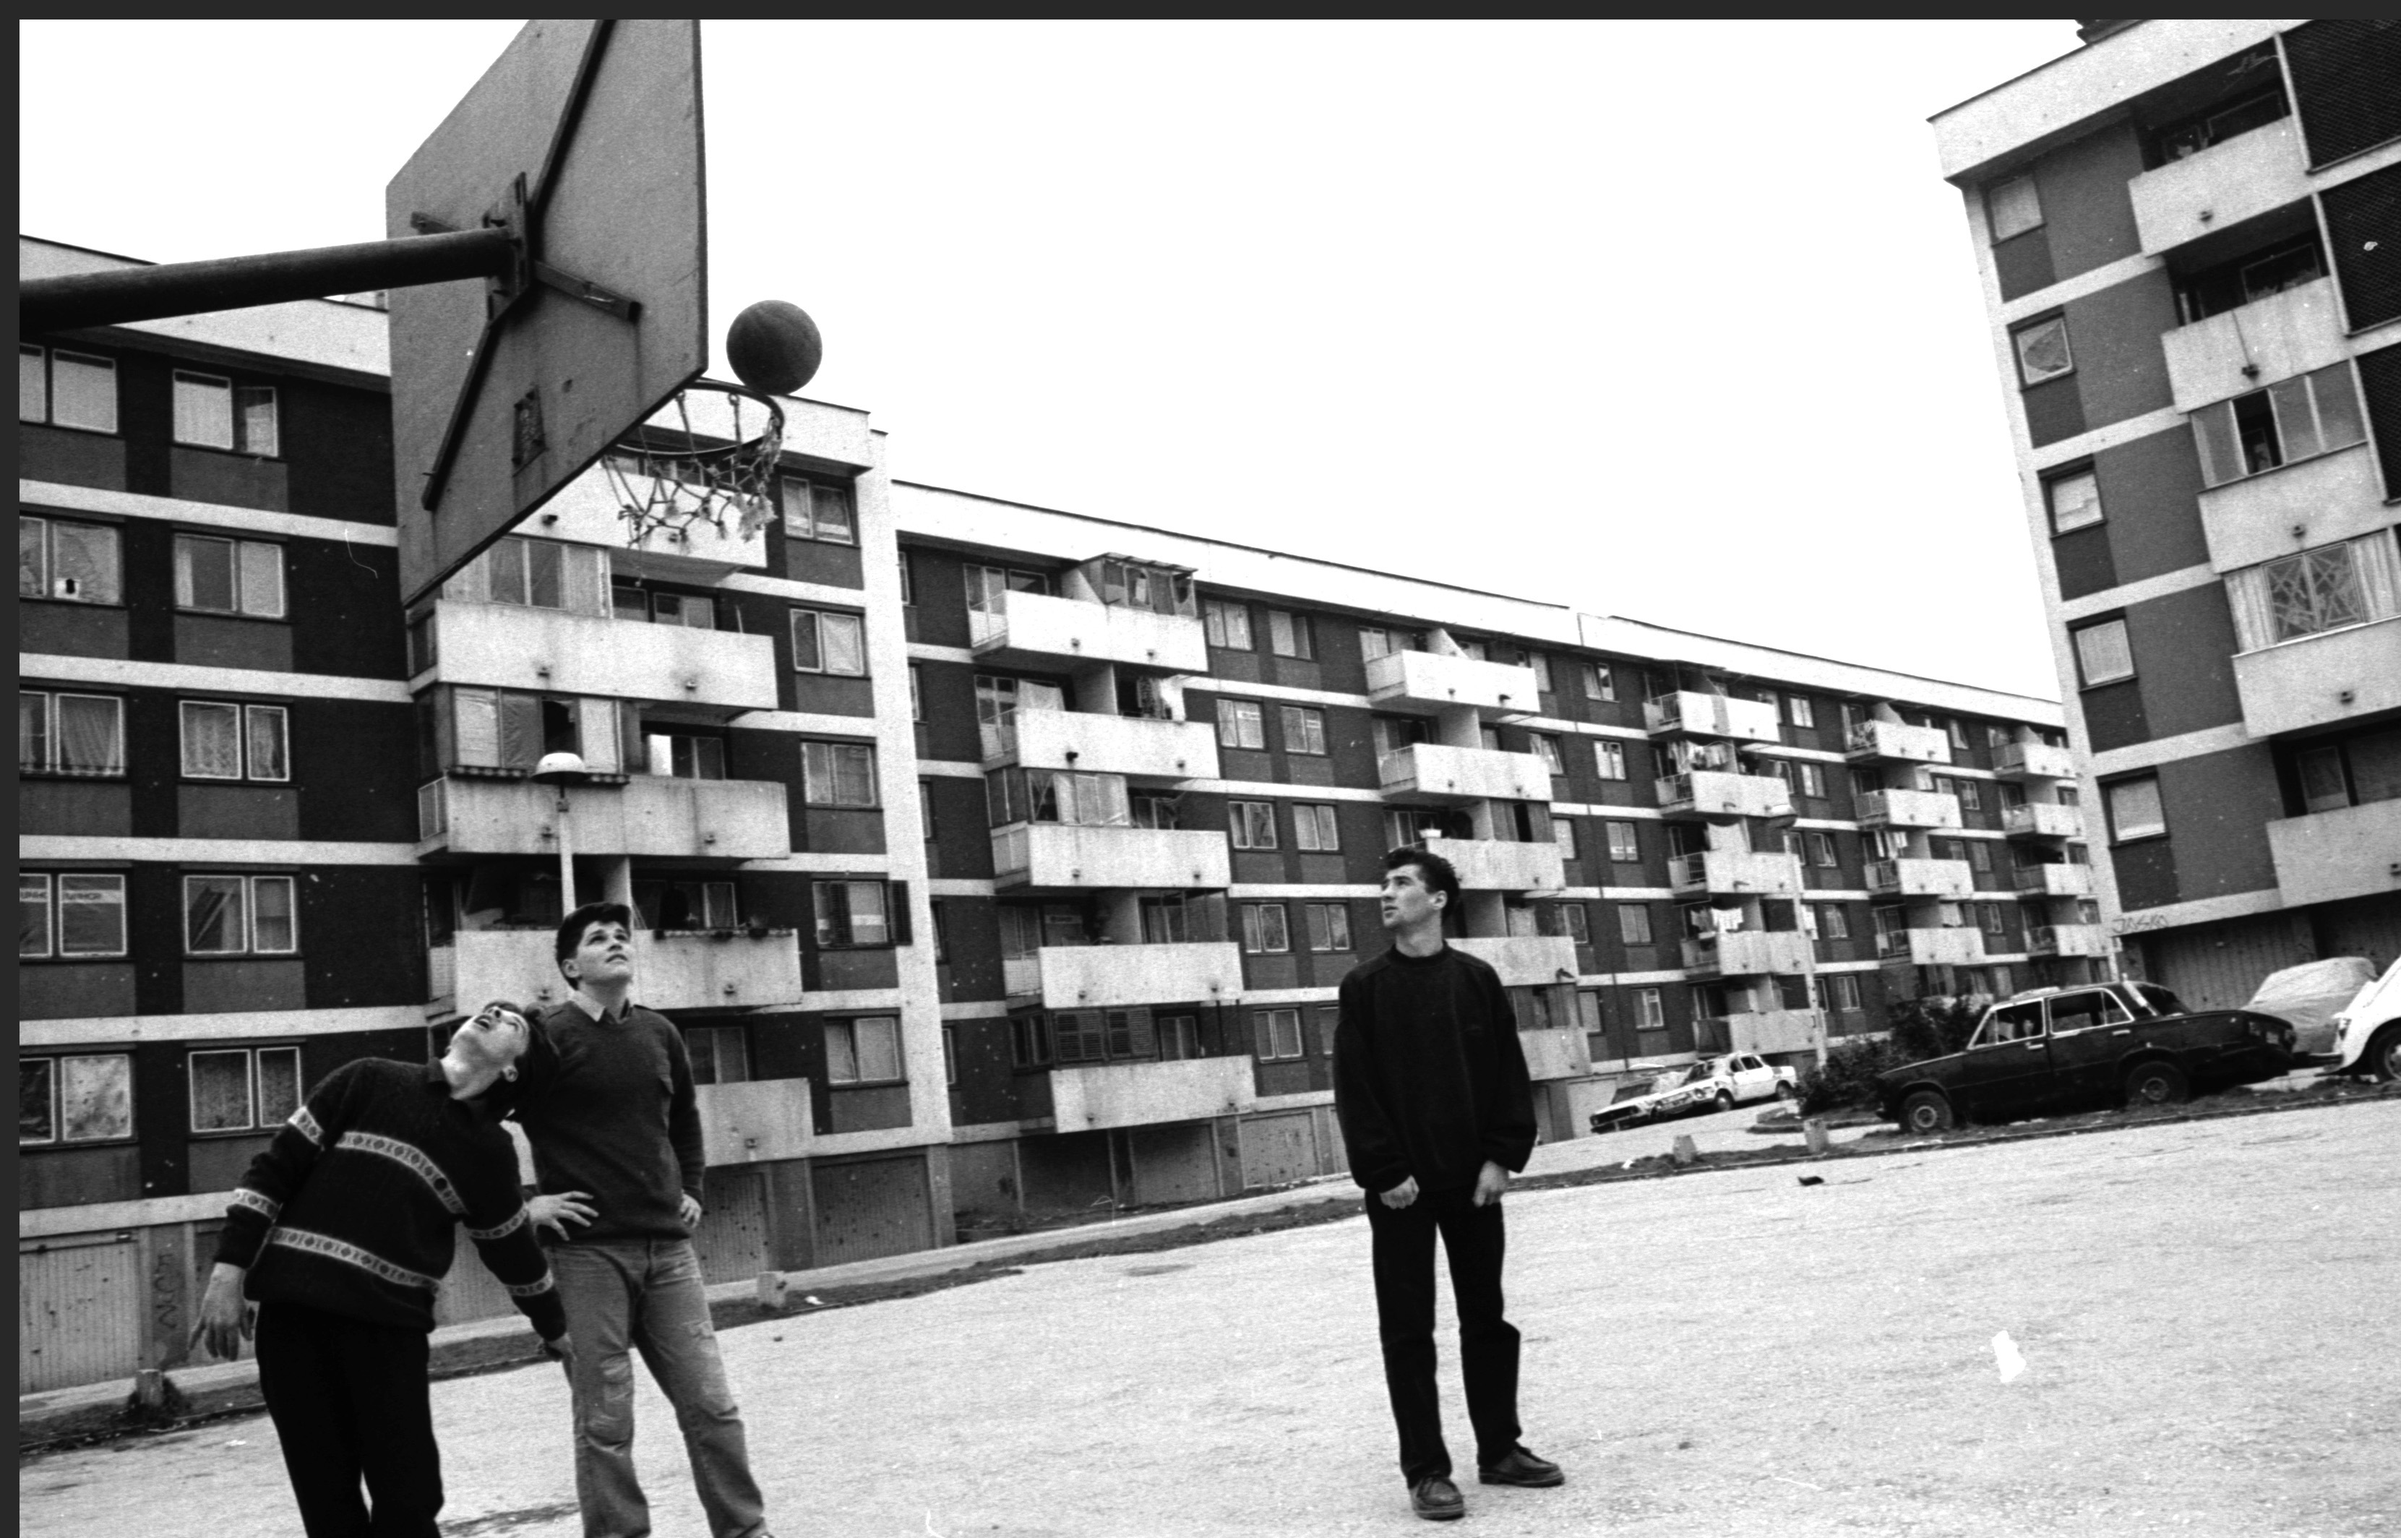
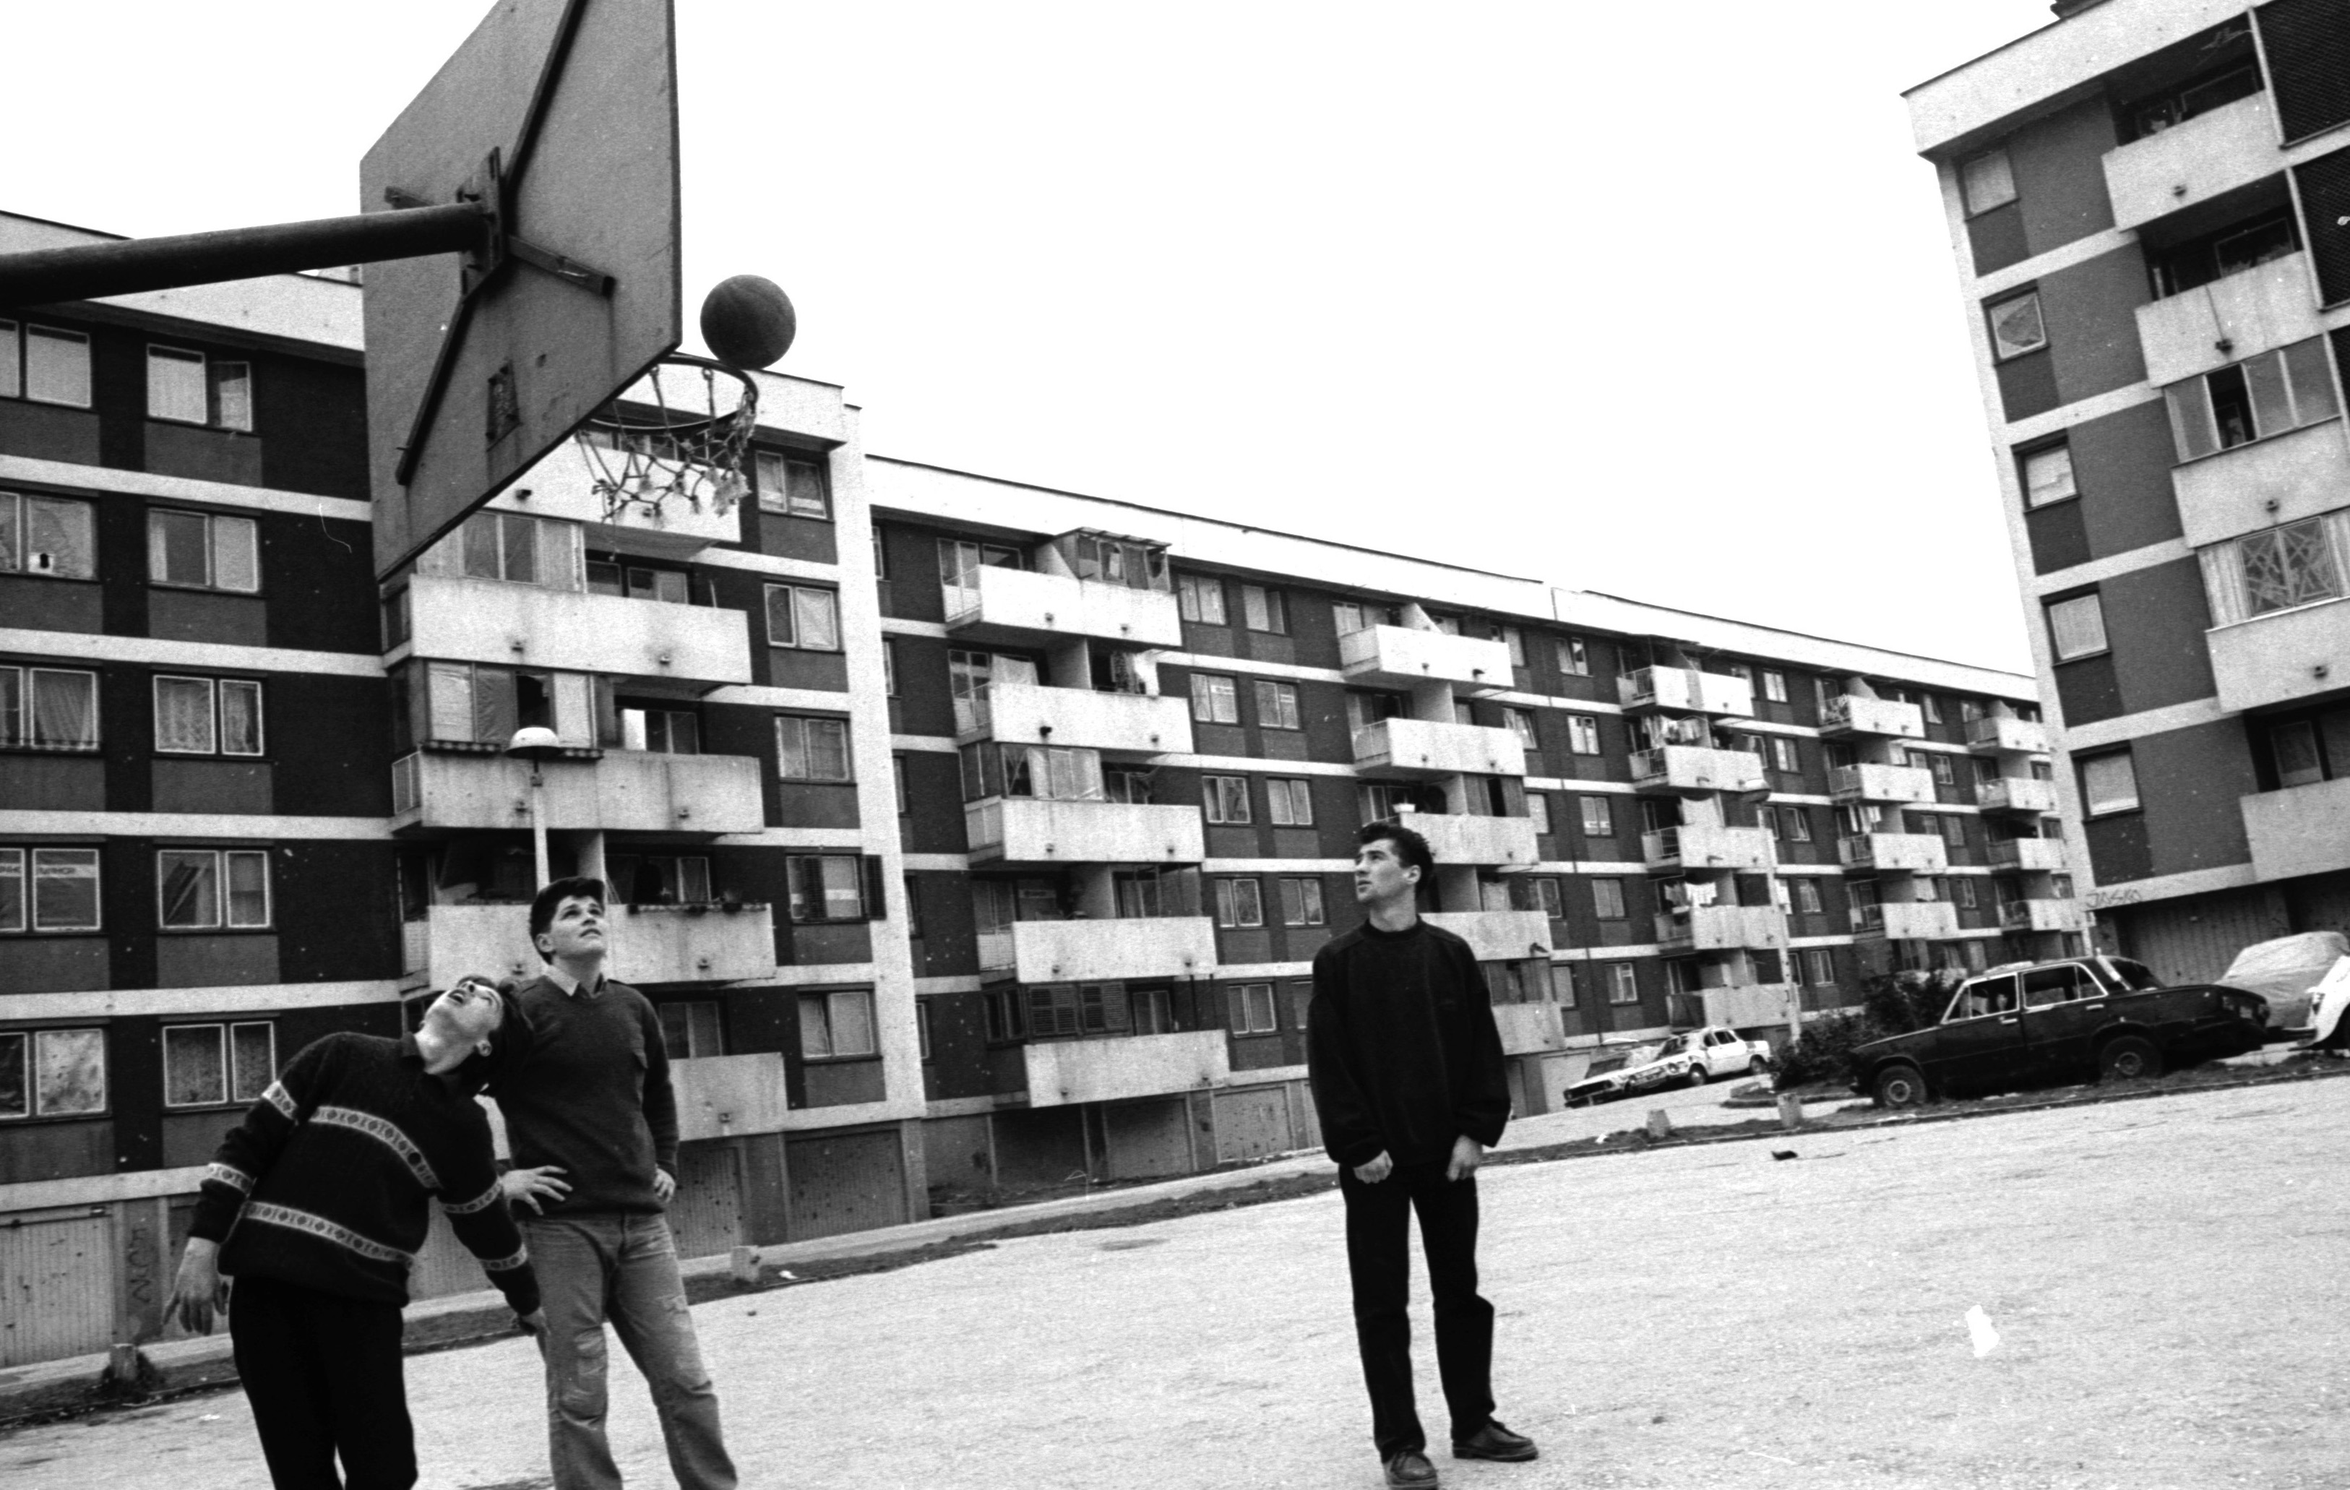
sff_01

diff --git a/_posts/radio-sarajevo-dnevnik-2024.md b/_posts/radio-sarajevo-dnevnik-2024.md
@@ -1,0 +1,103 @@
+---
+title: "Dnevnik Radija Sarajevo: Vrijeme je da bolje baždarimo mehanizam empatije i ljubavi"
+description: "Radio Sarajevo (Bosnian)"
+category: sketch
+date: "2024-08-24"
+link: "https://radiosarajevo.ba/metromahala/teme/dnevnik-radija-sarajeva-dzemil-hodzic-vrijeme-je-da-bolje-bazdarimo-mehanizam-empatije-i-ljubavi/558237"
+---
+![Radio Free Europe](/media/our-work/sketch/dzemil-hodzic-na-sff-u-foto-emir-jordamovic.jpg)
+_Photo © Emir Jordamović_
+
+### Subota, 17. august: Dolazak
+
+Mrak je, sunce još nije izašlo, spremam se za put. Avion polijeće u 7 sati. Nakon godinu dana putujem za Sarajevo, ovaj put radi obaveza, a ne zbog godišnjeg odmora. Slatke muke, sama pomisao relaksira. Sretan sam, potrebno mi je da napunim baterije. Nedostaje mi Sarajevo. I dobro i loše.
+
+Nedostaje mi zrak, miris, zvuk, i magla i kiša. Prijatelji. Nostalgija je opasna stvar.  Mamin zagrljaj, ljubav, njena toplota, pitanja. Njena kuhinja i jutarnja kafa. Ostajem kratko i nisam siguran da ću sve obaveze da obavim.
+
+Djeca još uvijek spavaju. Poljubio sam ih i nisu su se ni pomakli iz svog dubokog sna.
+
+Kako je lijepo biti dijete. Idem kući od kuće…
+
+### Nedjelja, 18. august: Premijera filma
+
+Cijeli dan sam bio zauzet. Raspored je gust. Malo je vremena bilo i želio sam da sve stignem. Određene obaveze diktiraju i vrijeme i mjesto, sve sam obavljao u hodu. 
+
+Prvo sam otišao Amelu na mezar, a poslije toga sam radio jedan intervju. Snimanje je trajalo dugo i kao svaki put naučite nešto novo o svom gradu, o novinarstvu, o ljudima i njihovim tajnama. Malo je vremena, puno riječi i toliko boli.  Premijera filma je bila u šest sati, ali smo mi malo poranili. Nekako uzbuđenje uradi svoje. Mislite da kasnite, da nešto neće biti uredu. Sala je bila puna, imao sam osjećaj da sve prisutne poznajem. Izgledalo je kao neki porodični ručak. Gdje god sam se okrenuo, vidio bih nekoga "svog”. Pogledi podrške i ljubavi.
+
+Bilo je emotivno, ali i tegobno za gledati film u prisustvu drugih, intima je bila narušena. 
+
+Želite da plačete, ali sami. Da zaustavite film i da uzmete daha. Otac je umro prije osam godina i nije imao priliku da bude svjedokom projekta i svega onoga što smo postigli od samog nastanka. Falio je večeras da bude tu, da bude ponosan i sretan. Volio bih da smo podijelili našu sreću sa uspjehom projekta koji je ovaj film prezentovao. Kažem sreću, a možda nije prikladno baš. Kao što nije bilo prikladno kad nam pred sami film moderatorka zagalami: "Uživajte u filmu!”
+
+### Ponedjeljak, 19. august: Emocije
+
+Dan poslije premijere i emocije se još nisu slegle. Moram da svoja razmišljanja stavim po strani. Kada ste zauzeti tugu i bol potiskujete da bi bili sposobni raditi stvari koje od vas zahtijevaju fokus i bistrinu vašeg uma. Nekad ću poslije da se bavim reakcijama i komplimentima, danas nije bio taj dan. 
+
+Kao i prethodna dva, zauzeto. Korisno prije svega i konstruktivno. Uživam u gradu tek onoliko u prolazu, između sastanaka i kafa.
+
+Pogledao sam film You Play My Father o predstavi koju izvodi Alma Mustafić. Predstavi koja govori o genocidu u Srebrenici i kako je ubijen njen otac. Film je trajao 27 minuta, a ja sam htio da je duži, bilo mi je nedovoljno.
+
+Htio sam da saznam još detalja. Htio sam sve da znam u vezi Alme. Sve me je zanimalo. U paketu sa ovim filmom bio je i film Brother koji se bavi migrantima i njihovim smrtonosnim prelascima preko rijeká između Srbije i Bosne, Bosne i Hrvatske. Ljudi bez imená i bez licá umiru na našim prostorima a mi to i ne vidimo, ne znamo, ne zanima nas i ne možemo pomoći. 
+
+Dan pun emocija. Toliko toga za procesuirati.
+
+### Utorak, 20. august: U ime onih kojih nema...
+
+Sinoć je žena zaklana u Sarajevu. Treba sada vidjeti kako će ovo da mediji poprate. Nekako je nevakat i kvari atmosferu. Treba ostati pozitivan. Ali kad je bilo šta u ovom gradu na vakat?! Koliko god pokušavao da ne vidim i koliko god se trudio da ignorišem jednostavno patetiku nije lahko ne vidjeti. Određeni potezi bole, vrijeđaju. 
+
+Kada se bavite smrću na dnevnoj bazi onda nakon nekog vremena uvidite da ljude zaista mrtvi i ne zanimaju toliko koliko oni tvrde. Bilo, prošlo, i to je to. Lagano je sve svaliti na političare i populističke lešinare a šta je sa umjetnicima koji zaboravljaju svoje kolege. Sada nakon smrti vidite da to njihovo prijateljstvo nije ni postojalo i da je to sve bilo prividno. To isprazno "Slava mu”, uz neku staru sliku na kojoj se jedva razaznaju pikseli od lica. Toliko je to mučno gledati. 
+
+U ovom gradu apsolutno ne postoji ni jedna nagrada s imenom naših glumaca i glumica, nema fondacija, nema ni stipendija, nema da se obilježi i zabilježi da je u ovom gradu nekad postojao Muharem Osmanagaić, Šefik Uzunović, Hakija Hadžalić... Ko su njima ti tamo anonimni snimatelji?! Ja još nisam ni spomenuo sve, toliko novinara, umjetnika, pisaca koji nisu iz svijeta filma. Karim Zaimović ima svoju fondaciju i na tome se sve završava. Nema posebnih projekcija ako govorim o glumcima, neka baza ili stranica sa onima koji nisu više sa nama, nema kuća slavnih ili "In Memoriam" projekcije u čast naših kolega. Gdje su Mirsad Tuka, Haris Burina, Saša Petrović, Davor Janjić, Mustafa Nadarević… Mene ne zanima ko je dobio "Srce Sarajeva" prije dvadeset godina. Ja bih volio da vidim sliku Mirsada Tuke. a ne Mike Leigh-a.
+
+Zašto je to teško?
+
+Zaboravio sam dosta imena, a kako i ne bih zaboravio kada ništa i ne postoji gdje bih imao biografije naših velikana. Ima još festivala i udruženja koji bi mogli i trebali da se bave svojim sad već bivšim i zaboravljenim filmskim radnicima. Kao da ne znaju da će i oni biti u istoj situaciji i ista stvar će se i njima desiti. Slava mu/joj i idemo dalje. Vrijeme je da promijenimo pristup, da malo bolje baždarimo mehanizam empatije i ljubavi. 
+
+Ipak, ovo je "grad filma”! Ili nije? Gdje vam je taj i šta to na kraju krajeva znači "Sarajevski duh”?
+
+### Srijeda, 21. august: David Bowie iz Srebrenice
+
+Danas smo snimali dva intervjua. U sklopu našeg serijala The Story Behind The Photo imamo fotografe koji su bili u Sarajevu u toku opsade. Jedan od tih fotografa je trenutno u Sarajevu i iskoristili smo priliku da ga snimamo za naš projekat. Kao i svaki put, ponavljam se, uvijek nešto naučim. Prije svega sebi, o Sarajevu. Proveli smo četiri sata skupa i bilo je više nego korisno.
+
+Poslije podne imao sam još jedno snimanje ali ovaj put sa Bosancem. Svaka riječ mi je bila bliska i dok sam slušao emotivna ispovijedanja, sjećao sam se svog brata. Kao da sam slušao sebe. Odzvanjalo mi je u glavi. Imao sam sunčane naočale i suze se nisu vidjele.
+
+Predveče sam gledao četiri filma. Toliko različita a toliko slična. U sklopu programa "Dealing with the Past”. Najviše me se dojmio film o Samiru, Davidu Bowieju iz Srebrenice autorice Lamije Grebo. Milena je, također, odličan film kao i Čovjek koji nije htio da šuti.
+
+Moram da kažem da ove godine ni jedan dugometražni nisam pogledao.  I nije mi ni žao.
+
+### Četvrtak, 22. august: Podrška
+
+Današnji dan je bio poseban! Dan koji će ostati zabilježen za rad našeg projekta "Sniper Alley Photo". Sasvim neplanski i bez mog znanja jedna draga osoba je ugovorila sastanak sa gradonačelnicom Sarajeva Benjaminom Karić i zamolila me da se sastanemo. Okružen sam takvim ljudima, podrškom, motivacijom, isključivo zbog projekta. i na tome sam kao pojedinac jako počašćen.
+
+Moram da priznam da se svaki put iznova iznenadim. Lijepe riječi, komentari, komplimenti, pomoć, sve to dolazi od 'anonimnih' pratilaca, neopjevanih heroja koji su podjednako bitni i zaslužni za naš uspjeh. 
+
+Zbog gustog rasporeda mislio sam da neću moći da stignem u Vijećnicu. 
+
+Projekat je pokrenut u augustu 2019. prije pet godina i jedna od naših aktivnosti jesu i slike Sarajeva iz doba opsade.
+
+Svakodnevno dijelom slike i informacije razrušenog grada. Svake godine, svakog augusta slike izgorene Vijećnice našeg Rikarda Larme objavimo kao opomenu za sve buduće generacije. A danas, augusta 2024. godine ja sjedim u kancelariji naše Gradonačelnice. Tu sam da govorim o našem projektu ali smo se mi dotakli svega. Pričala mi je stvarima koje nisam znao, o svom djetinjstvu i Grbavici, o zgradi Loris i kako je u njoj provela cijeli rat. Pričamo o ubijenoj ženi, o ubistvima i Sanskom Mostu. 
+
+Izrazila je želju da pomogne naš rad i našu Misiju. Jako sam zahvalan na tome, ovo su novi momenti kada je projekat u pitanju.
+
+Rekao bih da je dan bio poseban i sretan ali ne mogu zbog vijesti da su se imigranti prevrnuli u rijeci Drini i da je među njima bila beba i majka. Baš kao i u filmu Brother koji sam gledao na festivalu. Živimo filmove koje gledamo. Možda je bolje da ne čitamo vijesti i da samo nastavimo uživati u svom izolovanom životu. Da ne pokvarimo atmosferu. Grad je lijep i veseo, što da to kvarimo...
+
+### Petak, 23. august: Odlazak  
+
+Spremio sam se, kupio sam stvari sa spiska, spakovao određene proizvode koje nosim svojoj porodici.  
+
+Nahranio sam dušu. Sretan sam. Zadovoljan.  
+
+Kratko je trajalo i kao uvijek nedovoljno da sve uradim i da sve svoje sitne želje ispunim.  
+Nažalost, nisam vidio sve drage ljude koje sam planirao.  
+I nakon tri mjeseca bi bilo isto, nedovoljno i nedovršeno.  
+Vremena nikad dosta.  
+
+Ovo pišem dok sjedim u avionu negdje iznad Iraka. Svoje kratke crtice, moja tužna i sretna zapažanja.  
+
+Možda je bolje što sam daleko, možda sam spašen.  
+Vjerovatno projekat i ne bi postojao da živim u Sarajevu.  
+Nostalgija je opasna stvar.  
+
+Vraćam se kući od kuće…     
+
+__  
+Published by Radio Sarajevo in Bosnian on August 24, 2024.
